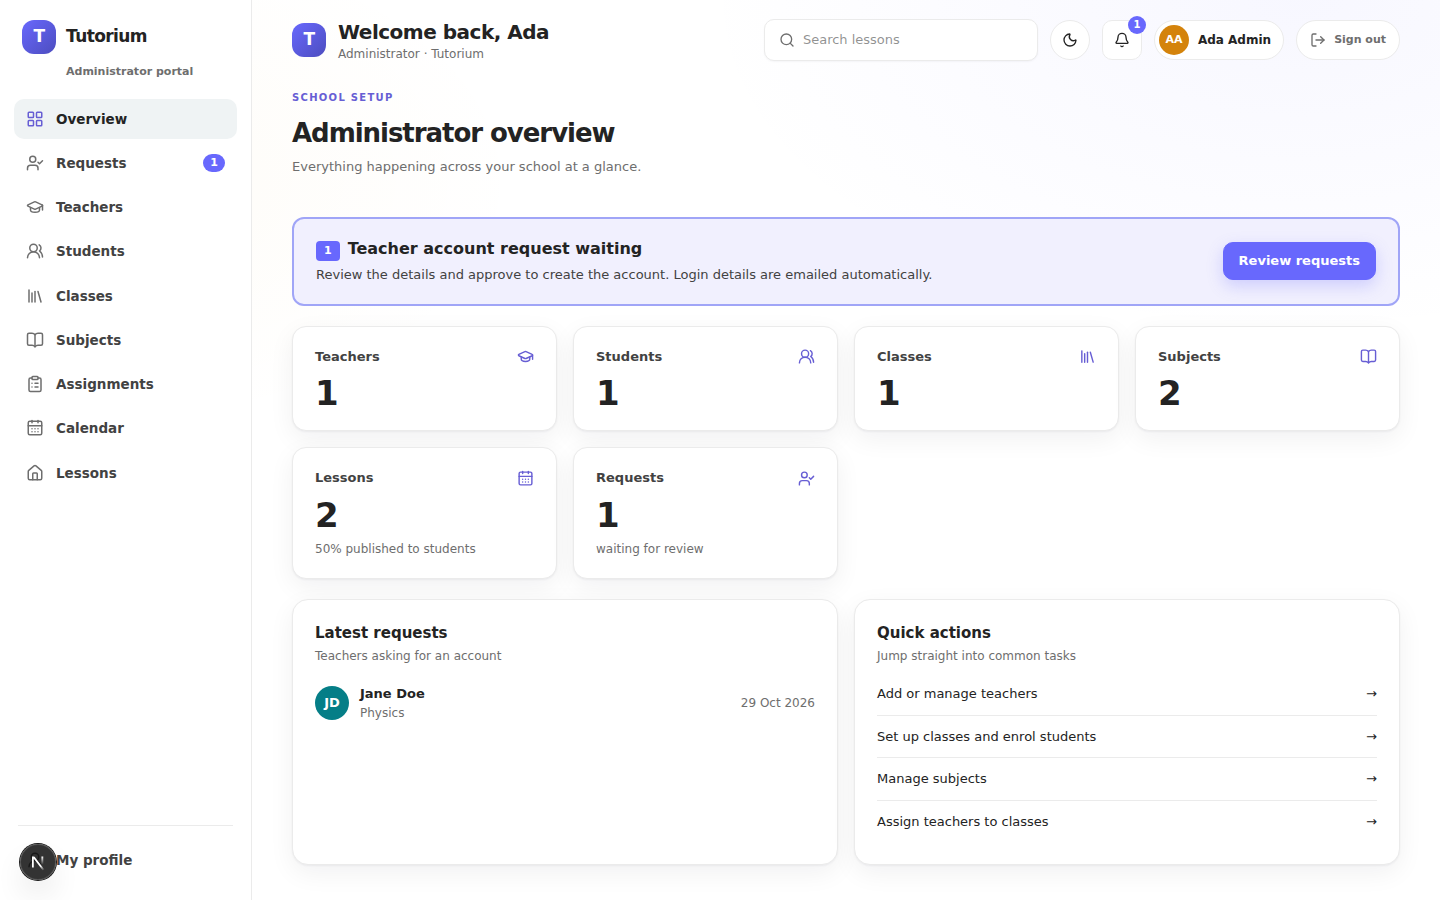
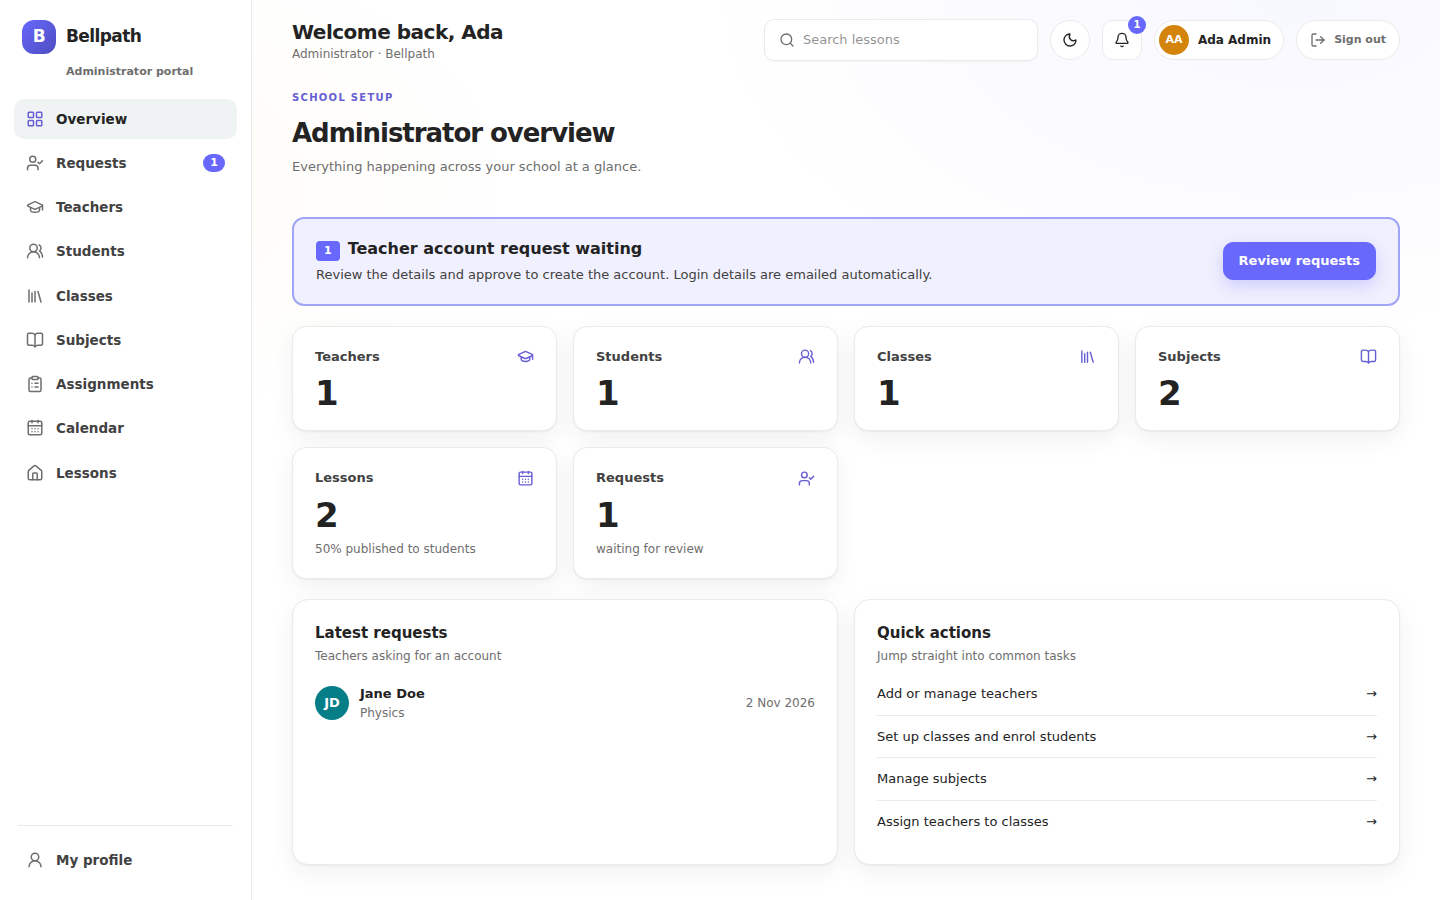
update: rename the app to 'Bellpath' and update the email text sent after account creation.

Changed region(s): [[0.1875, 0.0311, 0.375, 0.0622], [0.0, 0.9333, 0.0625, 0.9956], [0.0312, 0.0311, 0.0938, 0.0622]]

diff --git a/client/app/page.tsx b/client/app/page.tsx
@@ -31,8 +31,8 @@ export default function Home() {
         <main className="public-page">
             <header className="public-header">
                 <Link className="wordmark" href="/">
-                    <span className="brand-mark">T</span>
-                    Tutorium
+                    <span className="brand-mark">B</span>
+                    Bellpath
                 </Link>
                 <nav aria-label="Main navigation" className="public-nav">
                     <Link href="/help">Help</Link>
@@ -44,14 +44,14 @@ export default function Home() {
                 <div className="hero-copy">
                     <span className="eyebrow"><span className="eyebrow-dot" /> A calmer way to plan</span>
                     <h1>Lesson planning,<br /><em>all in one place.</em></h1>
-                    <p>Tutorium gives your school’s teachers a simple way to plan lessons, and gives students a clear view of what’s coming up in class.</p>
+                    <p>Bellpath gives your school’s teachers a simple way to plan lessons, and gives students a clear view of what’s coming up in class.</p>
                     <div className="hero-actions">
                         <a href={portalHref("teachers")} className="button button-primary">Sign in <ArrowRight size={16} /></a>
                         <Link href="/request-account" className="button button-light">Request a teacher account</Link>
                     </div>
-                    <div className="hero-note"><span className="note-avatar">TU</span><span>For the whole school, from first bell to last.</span></div>
+                    <div className="hero-note"><span className="note-avatar">BP</span><span>For the whole school, from first bell to last.</span></div>
                 </div>
-                <div className="preview-card" aria-label="Tutorium calendar preview">
+                <div className="preview-card" aria-label="Bellpath calendar preview">
                     <div className="preview-top"><div><span className="preview-label">YOUR WEEK</span><h2>Weekly overview</h2></div><span className="preview-dots">•••</span></div>
                     <div className="preview-week">{["M", "T", "W", "T", "F"].map((day, index) => <div key={`${day}-${index}`} className={index === 2 ? "week-day selected-day" : "week-day"}><span>{day}</span><b>{[12, 13, 14, 15, 16][index]}</b></div>)}</div>
                     <div className="preview-lesson lesson-purple"><span className="lesson-time">09:00</span><span className="lesson-line" /><span><b>Fractions &amp; number patterns</b><small>Mathematics · Grade 7 East</small></span></div>
@@ -91,7 +91,7 @@ export default function Home() {
             </section>
 
             <section className="closing-strip"><div><span className="eyebrow">HERE TO HELP</span><h2>Not sure where to start?</h2><p>Request a teacher account, read how accounts work, or contact your school administrator.</p></div><Link className="button button-light" href="/request-account">Request an account <ArrowRight size={16} /></Link></section>
-            <footer className="public-footer"><Link className="wordmark" href="/"><span className="brand-mark">T</span>Tutorium</Link><nav aria-label="Footer navigation"><Link href="/help">Help</Link><Link href="/privacy">Privacy</Link><Link href="/contact">Contact</Link></nav><small>© {new Date().getFullYear()} Your School</small></footer>
+            <footer className="public-footer"><Link className="wordmark" href="/"><span className="brand-mark">B</span>Bellpath</Link><nav aria-label="Footer navigation"><Link href="/help">Help</Link><Link href="/privacy">Privacy</Link><Link href="/contact">Contact</Link></nav><small>© {new Date().getFullYear()} Your School</small></footer>
         </main>
     );
 }

diff --git a/client/app/privacy/page.tsx b/client/app/privacy/page.tsx
@@ -2,12 +2,12 @@ import type { Metadata } from "next";
 import { InfoPage } from "@/app/components/InfoPage";
 
 export const metadata: Metadata = {
-    title: "Privacy · Tutorium",
-    description: "What information Tutorium holds and who can see it.",
+    title: "Privacy · Bellpath",
+    description: "What information Bellpath holds and who can see it.",
 };
 
 export default function PrivacyPage() {
-    return <InfoPage title="Privacy" intro="This page explains what information Tutorium holds, why, and who can see it. We’ve kept it in plain language.">
+    return <InfoPage title="Privacy" intro="This page explains what information Bellpath holds, why, and who can see it. We’ve kept it in plain language.">
         <div className="privacy-callout"><strong>Draft for review.</strong> This page is a draft. Please have it reviewed before publishing. The app holds children’s information, and the school may have legal obligations under data protection law (for example, Kenya’s Data Protection Act, if it applies to you).</div>
         <h2>What we hold</h2>
         <ul>
@@ -21,7 +21,7 @@ export default function PrivacyPage() {
         <h2>Why we hold it</h2><p>To let you sign in, to show you the right lessons and classes, and to send account emails such as your login details. We don’t use this information for advertising [confirm].</p>
         <h2>Who can see it</h2>
         <ul><li>Students see their own details and the published lessons of their classes.</li><li>Teachers see the classes they teach, their students and their own lessons.</li><li>Administrators manage accounts, classes and assignments.</li><li>Profile pictures are only shown to people who are allowed to see them.</li></ul>
-        <h2>Services that help us run Tutorium</h2><p>We use other companies to store or process data for us: [email provider] to send emails, Cloudinary to store profile pictures, and [Neon / hosting provider] to host our database and servers. [Confirm the full list and where data is stored.]</p>
+        <h2>Services that help us run Bellpath</h2><p>We use other companies to store or process data for us: [email provider] to send emails, Cloudinary to store profile pictures, and [Neon / hosting provider] to host our database and servers. [Confirm the full list and where data is stored.]</p>
         <h2>Students and families</h2><p>Student accounts are created by teachers, and login details are sent to a parent or guardian. Parents and guardians can ask Your School to correct or remove their child’s information by contacting [support email].</p>
         <h2>How long we keep it</h2><p>[State your retention period, for example: account information is kept while a person is at the school and for [period] afterwards.]</p>
         <h2>Your choices</h2><p>You can ask Your School to show you the information held about you, correct it, or remove it. Contact [support email].</p>

diff --git a/client/app/components/AppShell.tsx b/client/app/components/AppShell.tsx
@@ -89,7 +89,7 @@ export function AppShell({
     return (
         <div className="min-h-screen lg:flex">
             <aside className="app-sidebar" aria-label={`${ROLE_LABEL[portal]} navigation`}>
-                <Link className="wordmark" href={base}><span className="brand-mark">T</span>Tutorium</Link>
+                <Link className="wordmark" href={base}><span className="brand-mark">B</span>Bellpath</Link>
                 <span className="portal-role">{ROLE_LABEL[portal]} portal</span>
                 {links("side-link")}
                 <div className="side-spacer" />
@@ -105,10 +105,10 @@ export function AppShell({
 
             <div className="min-w-0 flex-1">
                 <header className="app-topbar">
-                    <span className="lg:hidden"><Link className="wordmark" href={base}><span className="brand-mark">T</span></Link></span>
+                    <span className="lg:hidden"><Link className="wordmark" href={base}><span className="brand-mark">B</span></Link></span>
                     <div className="min-w-0 flex-1">
                         <h1 className="truncate text-lg font-semibold tracking-tight lg:text-xl">Welcome back, {firstName}</h1>
-                        <p className="hidden text-xs text-muted sm:block">{ROLE_LABEL[portal]} · Tutorium</p>
+                        <p className="hidden text-xs text-muted sm:block">{ROLE_LABEL[portal]} · Bellpath</p>
                     </div>
                     <form action={portalUrl("/lessons")} role="search" className="search-box">
                         <Search className="size-4 text-muted" />

diff --git a/client/app/components/InfoPage.tsx b/client/app/components/InfoPage.tsx
@@ -5,7 +5,7 @@ export function InfoPage({ title, intro, children }: { title: string; intro: str
     return (
         <main className="info-page">
             <header className="public-header">
-                <Link className="wordmark" href="/"><span className="brand-mark">T</span>Tutorium</Link>
+                <Link className="wordmark" href="/"><span className="brand-mark">B</span>Bellpath</Link>
                 <Link className="text-link" href="/help">Help <ArrowLeft className="rotate-180" size={14} /></Link>
             </header>
             <article className="info-content">
@@ -14,7 +14,7 @@ export function InfoPage({ title, intro, children }: { title: string; intro: str
                 <p className="info-intro">{intro}</p>
                 <div className="info-body">{children}</div>
             </article>
-            <footer className="public-footer"><Link href="/">Tutorium</Link><nav><Link href="/help">Help</Link><Link href="/privacy">Privacy</Link><Link href="/contact">Contact</Link></nav><small>© {new Date().getFullYear()} Your School</small></footer>
+            <footer className="public-footer"><Link href="/">Bellpath</Link><nav><Link href="/help">Help</Link><Link href="/privacy">Privacy</Link><Link href="/contact">Contact</Link></nav><small>© {new Date().getFullYear()} Your School</small></footer>
         </main>
     );
 }

diff --git a/client/app/accounts/page.tsx b/client/app/accounts/page.tsx
@@ -3,12 +3,12 @@ import { InfoPage } from "@/app/components/InfoPage";
 import { portalHref } from "@/lib/portal";
 
 export const metadata: Metadata = {
-    title: "How to get an account · Tutorium",
+    title: "How to get an account · Bellpath",
     description: "Accounts are created by your school. Find out how to get yours.",
 };
 
 export default function AccountsPage() {
-    return <InfoPage title="How to get an account" intro="Tutorium accounts are created by your school, so only the right people can get in. Teachers can ask for one using the request form.">
+    return <InfoPage title="How to get an account" intro="Bellpath accounts are created by your school, so only the right people can get in. Teachers can ask for one using the request form.">
         <h2>Who sets up your account</h2>
         <ul>
             <li><strong>Teachers:</strong> <a href="/request-account">Send an account request</a>. An administrator reviews it and creates your account. You’ll receive an email with your login ID and a temporary password.</li>

diff --git a/client/app/request-account/page.tsx b/client/app/request-account/page.tsx
@@ -4,15 +4,15 @@ import Link from "next/link";
 import { AccountRequestForm } from "@/app/components/AccountRequestForm";
 
 export const metadata: Metadata = {
-    title: "Request a teacher account · Tutorium",
-    description: "Teachers can ask a school administrator to create their Tutorium account.",
+    title: "Request a teacher account · Bellpath",
+    description: "Teachers can ask a school administrator to create their Bellpath account.",
 };
 
 export default function RequestAccountPage() {
     return (
         <main className="auth-page">
             <header className="auth-header">
-                <Link className="wordmark" href="/"><span className="brand-mark">T</span>Tutorium</Link>
+                <Link className="wordmark" href="/"><span className="brand-mark">B</span>Bellpath</Link>
                 <Link href="/help">Help</Link>
             </header>
             <AccountRequestForm />

diff --git a/client/app/components/AccountRequestForm.tsx b/client/app/components/AccountRequestForm.tsx
@@ -100,7 +100,7 @@ export function AccountRequestForm() {
                 </div>
                 <label className="check-row full">
                     <input type="checkbox" checked={consent} onChange={(event) => setConsent(event.target.checked)} />
-                    <span>I confirm these details are correct, and I’m happy for Tutorium to contact me by email and phone about my account.</span>
+                    <span>I confirm these details are correct, and I’m happy for Bellpath to contact me by email and phone about my account.</span>
                 </label>
                 {error && <p className="alert full" role="alert">{error}</p>}
                 <button type="submit" className="button button-primary full" disabled={loading}>{loading ? "Sending…" : "Send request"}</button>

diff --git a/client/app/components/PortalSignIn.tsx b/client/app/components/PortalSignIn.tsx
@@ -97,7 +97,7 @@ export function PortalSignIn({ portal, status }: { portal: PortalRole; status?: 
 
     return (
         <main className="auth-page">
-            <header className="auth-header"><Link className="wordmark" href={publicHref("/")}><span className="brand-mark">T</span>Tutorium</Link><a href={publicHref("/help")}>Help</a></header>
+            <header className="auth-header"><Link className="wordmark" href={publicHref("/")}><span className="brand-mark">B</span>Bellpath</Link><a href={publicHref("/help")}>Help</a></header>
             <section className="auth-card">
                 <div className="auth-icon"><LockKeyhole size={20} /></div>
                 <span className="eyebrow">YOUR SCHOOL PORTAL</span>

diff --git a/client/app/components/ChangePasswordForm.tsx b/client/app/components/ChangePasswordForm.tsx
@@ -51,7 +51,7 @@ export function ChangePasswordForm({ portal }: { portal: PortalRole }) {
 
     return (
         <main className="auth-page">
-            <header className="auth-header"><Link className="wordmark" href={portalPath(portal)}><span className="brand-mark">T</span>Tutorium</Link><span>Secure your account</span></header>
+            <header className="auth-header"><Link className="wordmark" href={portalPath(portal)}><span className="brand-mark">B</span>Bellpath</Link><span>Secure your account</span></header>
             <section className="auth-card">
                 <div className="auth-icon">✦</div><span className="eyebrow">ONE QUICK STEP</span>
                 <h1>Choose a new password</h1>

diff --git a/client/app/components/ProfileForm.tsx b/client/app/components/ProfileForm.tsx
@@ -76,7 +76,7 @@ export function ProfileForm({ profile }: { profile: UserProfile }) {
     return (
         <div className="mx-auto flex max-w-3xl flex-col gap-5">
             <div className="page-head">
-                <div><span className="eyebrow">YOUR ACCOUNT</span><h2>My profile</h2><p>Update how you appear in Tutorium and keep your account secure.</p></div>
+                <div><span className="eyebrow">YOUR ACCOUNT</span><h2>My profile</h2><p>Update how you appear in Bellpath and keep your account secure.</p></div>
             </div>
 
             <section className="glass panel">

diff --git a/client/app/admin/login/page.tsx b/client/app/admin/login/page.tsx
@@ -1,7 +1,7 @@
 import type { Metadata } from "next";
 import { PortalSignIn } from "@/app/components/PortalSignIn";
 
-export const metadata: Metadata = { title: "Administrator sign in · Tutorium", description: "Sign in to manage classes, subjects and teaching assignments." };
+export const metadata: Metadata = { title: "Administrator sign in · Bellpath", description: "Sign in to manage classes, subjects and teaching assignments." };
 
 export default async function AdminLogin({ searchParams }: { searchParams: Promise<{ status?: string }> }) {
     const { status } = await searchParams;

diff --git a/client/app/students/login/page.tsx b/client/app/students/login/page.tsx
@@ -1,7 +1,7 @@
 import type { Metadata } from "next";
 import { PortalSignIn } from "@/app/components/PortalSignIn";
 
-export const metadata: Metadata = { title: "Student sign in · Tutorium", description: "Sign in to see your lessons and upcoming classes." };
+export const metadata: Metadata = { title: "Student sign in · Bellpath", description: "Sign in to see your lessons and upcoming classes." };
 
 export default async function StudentLogin({ searchParams }: { searchParams: Promise<{ status?: string }> }) {
     const { status } = await searchParams;
